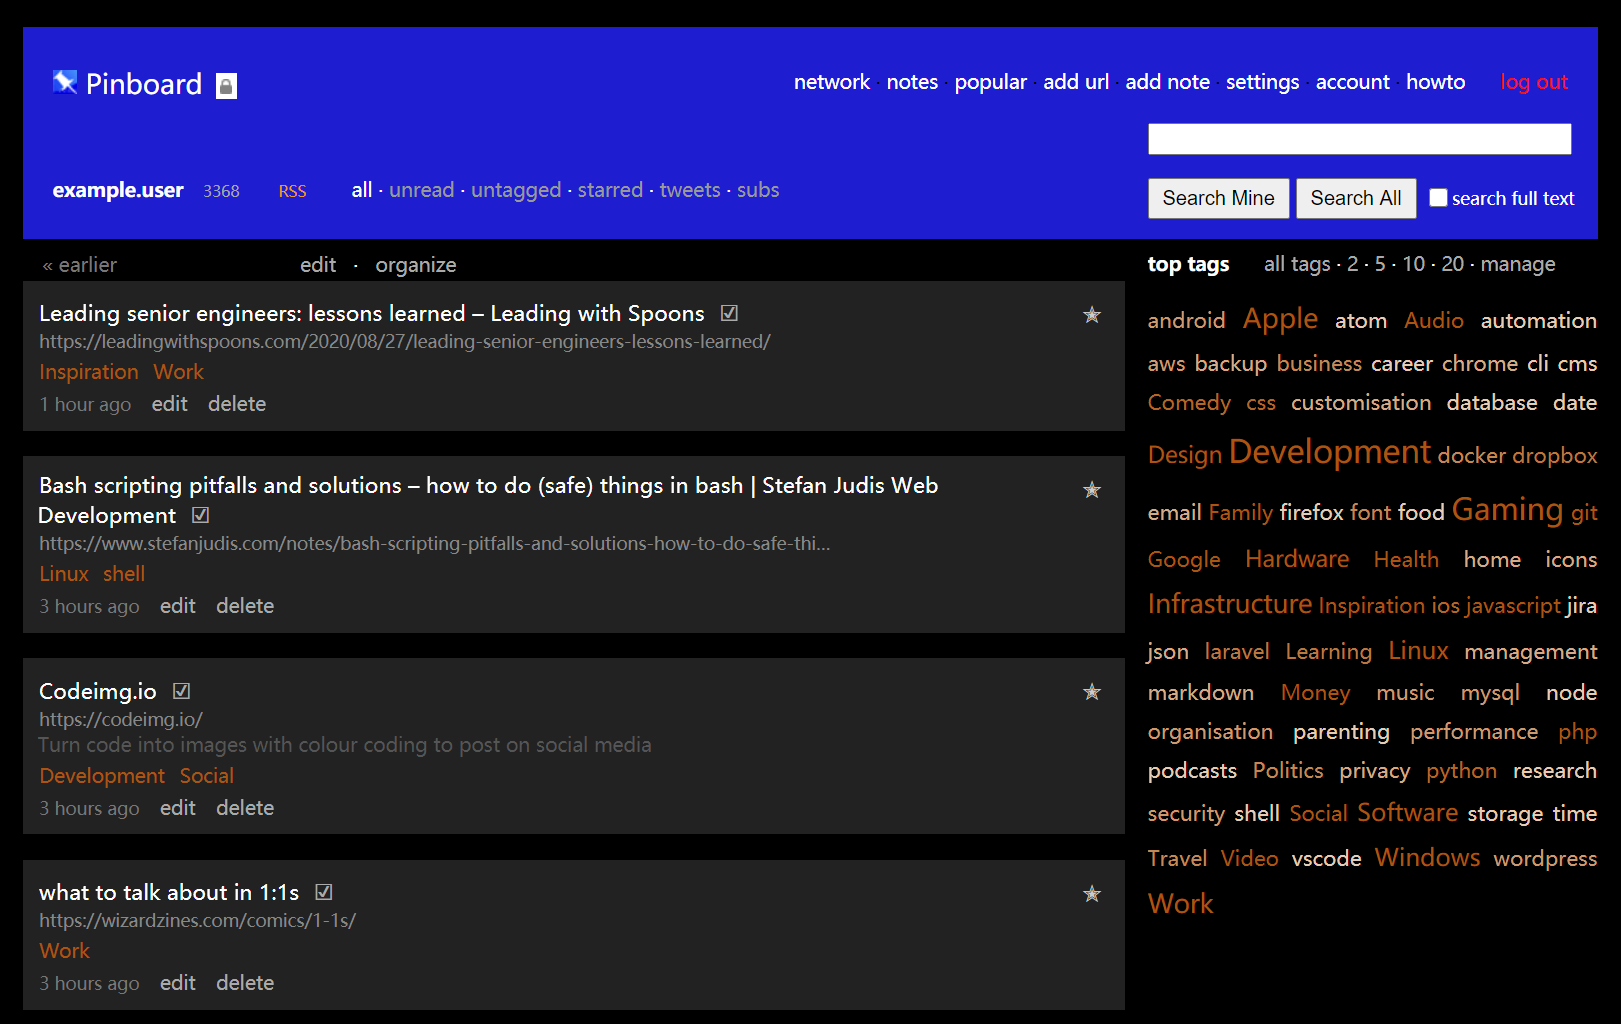
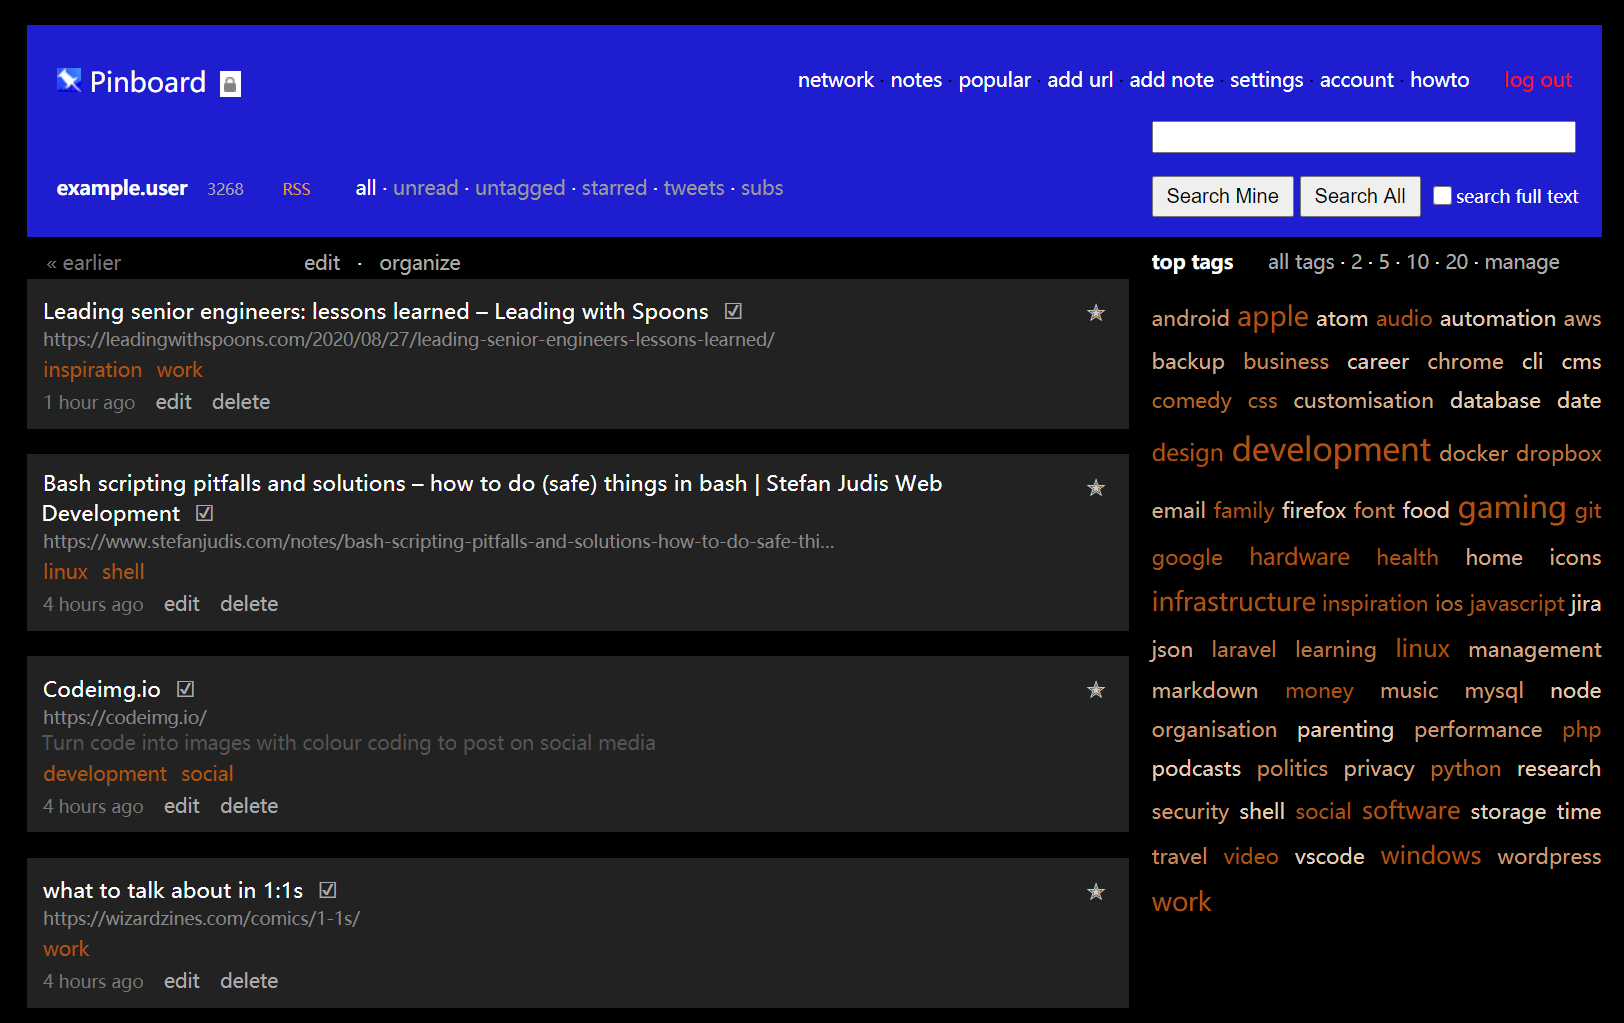
Make tags display as lowercase only

diff --git a/pinboard.css b/pinboard.css
@@ -50,6 +50,10 @@ body {
   margin-left: 10px;
 }
 
+a.tag {
+  text-transform: lowercase;
+}
+
 #tag_cloud a.tag_heading_selected {
   color: #fff;
 }
